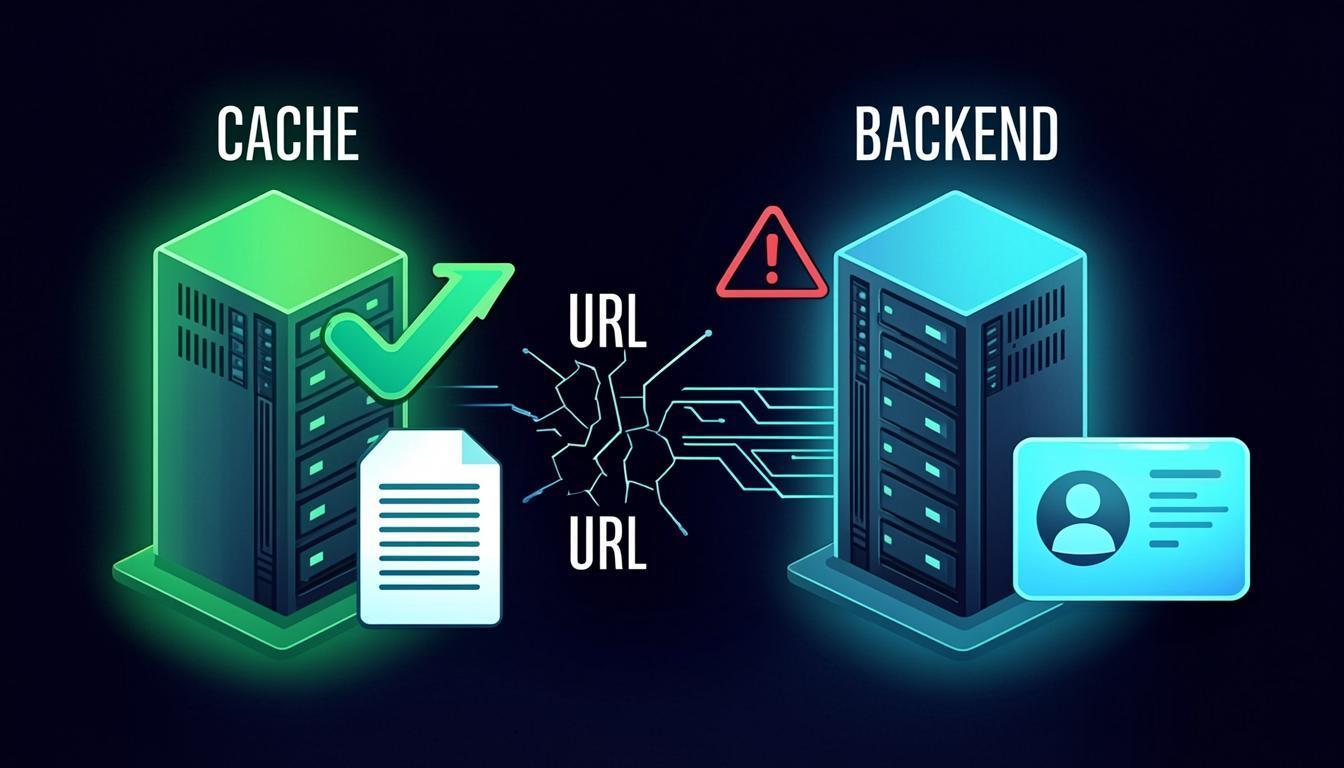
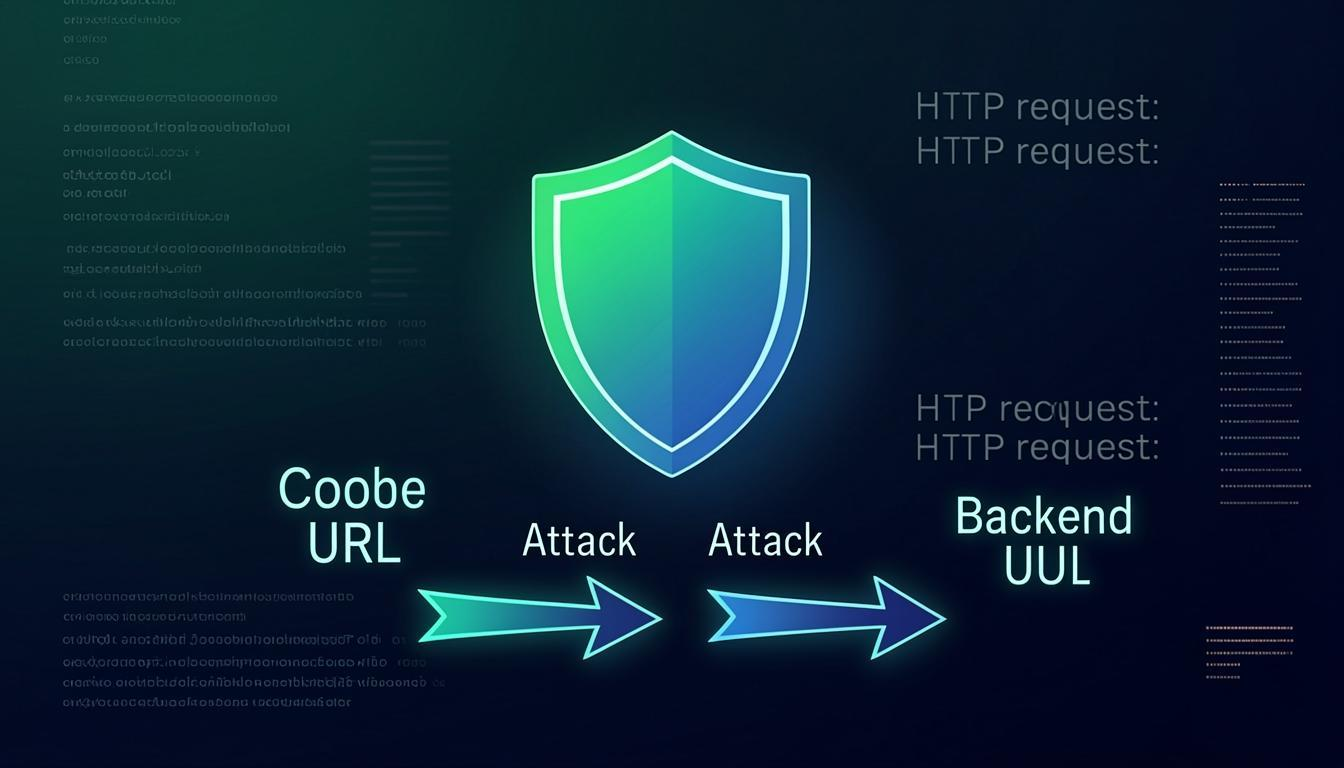
Update WCD Education Platform: new images and refined description

diff --git a/_projects/8_project.md b/_projects/8_project.md
@@ -1,7 +1,7 @@
 ---
 layout: page
 title: "WCD Education Platform"
-description: "Интерактивная образовательная платформа для изучения уязвимости Web Cache Deception: теория, лаборатория и ИИ-ассистент"
+description: "Интерактивная образовательная платформа для изучения уязвимости Web Cache Deception: теория, лаборатория и ассистент"
 img: assets/img/projects/wcd-education-platform.png
 icon: favicons/wcd.png
 importance: 2
@@ -10,7 +10,7 @@ demo: https://wcd-education-platform-1nuuiz9am-azars-projects-e8b4719a.vercel.ap
 related_publications: false
 ---
 
-Интерактивная образовательная платформа для изучения уязвимости Web Cache Deception (WCD). Все материалы на русском языке: теория, пошаговая визуализация атаки и ИИ-ассистент.
+Интерактивная образовательная платформа для изучения уязвимости Web Cache Deception (WCD). Все материалы на русском языке: теория, пошаговая визуализация атаки и встроенный ассистент.
 
 ### Что такое Web Cache Deception
 
@@ -23,7 +23,7 @@ Web Cache Deception — уязвимость, при которой атакую
 - **Главная** — обзор платформы, ключевые концепции, быстрый доступ к разделам
 - **Теория** — 7 образовательных разделов: Web Cache, кэширование, Backend, WCD, delimiter discrepancies, интерпретация URL, утечка данных
 - **Лаборатория** — интерактивная демонстрация атаки WCD: ввод URL, пошаговая визуализация обработки Cache и Backend, отображение расхождений и утечки данных
-- **ИИ-ассистент** — чат-бот «Кэш-страж», эксперт по WCD, HTTP, CDN, Burp Suite и PortSwigger Academy
+- **Ассистент** — чат-бот «Кэш-страж», эксперт по WCD, HTTP, CDN, Burp Suite и PortSwigger Academy
 - **О проекте** — описание, технологический стек, ссылки на ресурсы PortSwigger
 
 ### Лаборатория
@@ -42,7 +42,6 @@ Web Cache Deception — уязвимость, при которой атакую
 
 - **Frontend**: Next.js 16, React 19, TypeScript, Tailwind CSS 4, shadcn/ui
 - **State**: Zustand
-- **AI**: OpenRouter (Google Gemma 4 31B) — потоковый вывод ответов
 - **Деплой**: Vercel
 
 ### Попробовать
